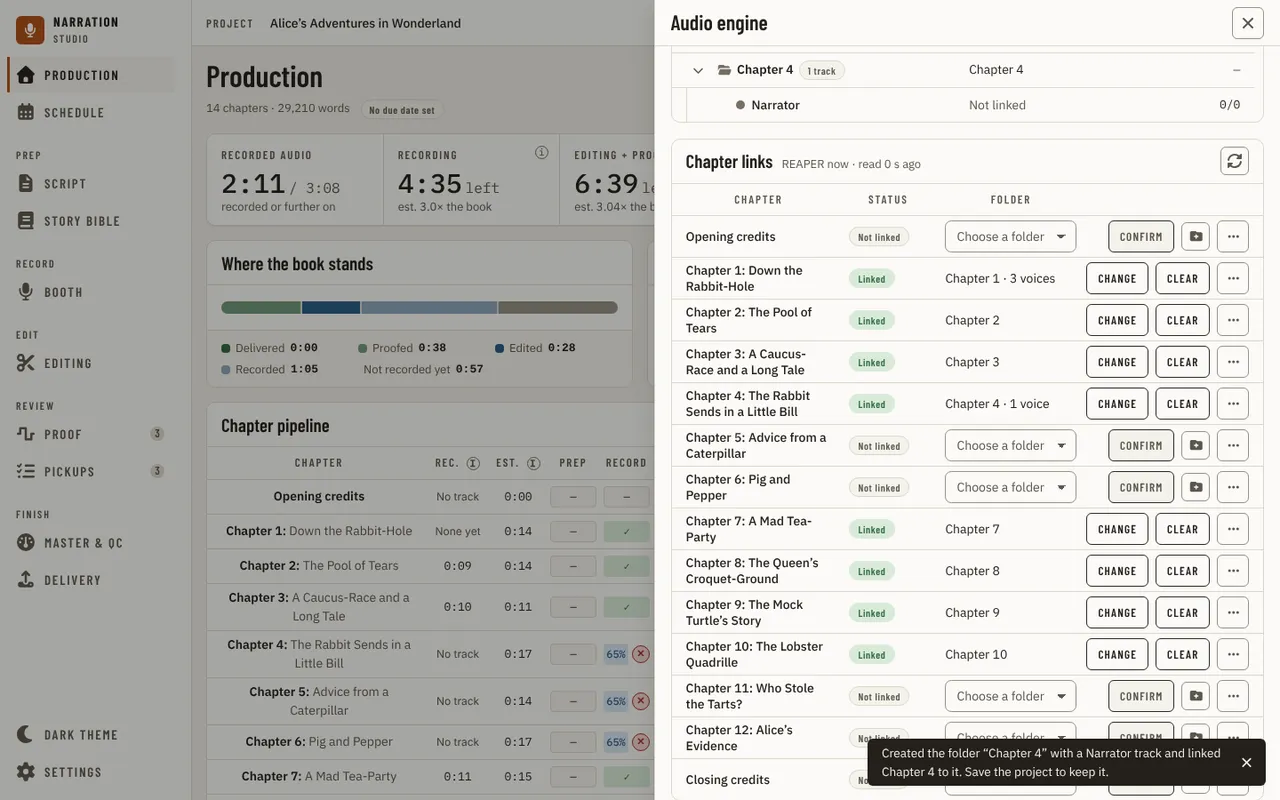
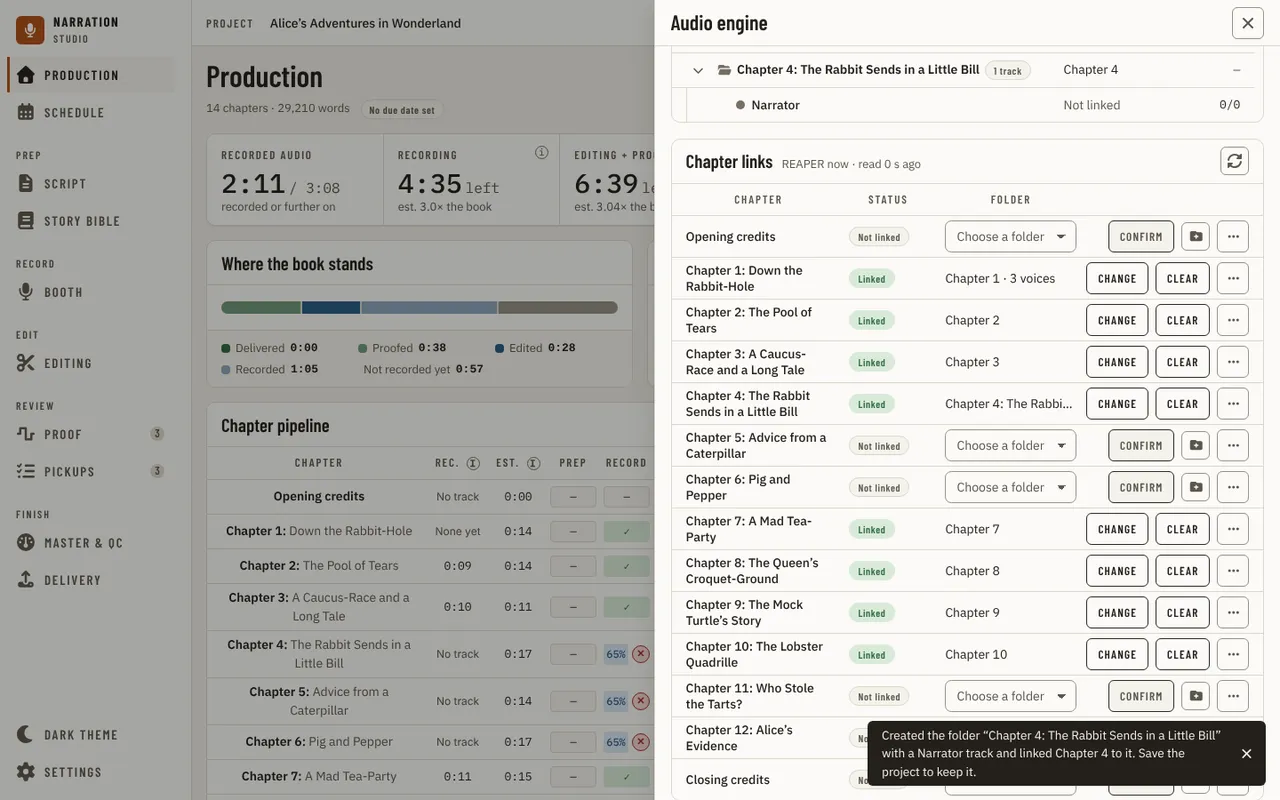
docs(engine): the open-folder close on every append and the create refusals
Claude-Session: https://claude.ai/code/session_01EBTykfDm4tMvg2DQjdoWjd

diff --git a/docs/architecture/threat-model.md b/docs/architecture/threat-model.md
@@ -136,7 +136,7 @@ Boundary: the Go host and the Lua bridge in REAPER exchange files in one session
 | 5o | T, E, I: the app makes REAPER render: the mastering port's DAW row (`render_with_fx`, with `master_chain_read` to show the chain first; [Provider ports](provider-ports.md), owner decision D86, and [The REAPER bridge and its test harness](reaper-bridge.md)). The bridge's first command that renders (`narration_render.lua` only configures one, row 5h); a render runs the project's own plug-ins over its audio and writes files | **Built, Experimental, and not yet sent by any screen**. `src/studio/integrations/reaper/narration_master_render.lua` renders only when: the command carries a host approval token, 32 to 128 hex characters, not seen before in this REAPER session (used up even when the render is then refused); the output folder is absolute, has no `.` or `..` part, ends in `<app>/mastering/<plain name>`, exists and is empty; each named region exists once; REAPER is not recording; and `RENDER_TARGETS` predicts exactly one `<folder>/fx-NN.wav` that does not exist yet (a region's name never shapes a path, and a format other than WAV is refused rather than written). Each region renders as the master mix (`RENDER_SETTINGS` 0) between its own bounds with `RENDER_ADDTOPROJ` 0, and the seven render keys it writes are read first and put back afterwards; `RENDER_FORMAT` is never written and `RENDER_STATS` never read. `master_chain_read` reads and changes nothing, and a list the bridge cut short is refused (`bridge.ErrChainTooLong`), so the narrator approves a chain they saw whole. The host side (`src/studio/desktop/internal/masteringport/daw.go`) needs `Request.Approved`, makes a fresh 128-bit token per render and never stores it, makes the empty run folder itself and removes it after, refuses an answer naming a file outside that folder, moves the one WAV into place without replacing a file (a hard link, or a copy renamed in once the destination is still free), and measures and judges it only with `internal/measure` and `internal/deliveryprofile`. Both capabilities are Experimental in `internal/dawport/reaper` (`master_chain_read` through `bridge.Actions`' gate, `render_with_fx`'s role only when the resolver allows it). The host sets `masteringport.UseSession` in `ServiceStartup` to the open project's DAW port resolver and folder, read again on each master (`Host.masteringSession`), and Master & QC's export masters with the project's chosen row; it refuses a row that needs approval before the job starts, because its request carries no approval yet, so no master reaches REAPER until the export asks the narrator for one (#2739). Re-read 2026-11-03 (#2739) against `export_job.go` and `bindings_mastering.go`. Tested by the harness (`master_render_test.lua`, 18 mutation checks), `bridge`, `dawport/reaper` and the mastering conformance suite, whose fake DAW refuses what the bridge refuses | A same-user process that can write the command folder (5a) can forge a render with a token it invents: it runs the narrator's own installed plug-ins over the project's audio and writes only into an existing, empty `<app>/mastering/<name>` folder, never over a file, and the narrator's render settings are put back. That is the same exposure as the narrator's own render dialog and costs CPU and disk, not data. What REAPER does with the settings (the render action's dialog, custom-bounds targets, tails, sample rate, which FX run) is checked in the owner's scripted pass (#510), not the harness. Accepted; #240 as for 5a. Owner: maintainer |
 | 5r | T, I, D: a command plays a file on disk through REAPER or shows it in REAPER's Media Explorer, by path, outside the project (`preview_file_range`, `stop_file_preview`, `reveal_file`; SN-B98, the `file_preview` and `file_reveal` capabilities). The first commands whose path the Lua opens as audio without adding it to the project | **The path is one the narrator picked.** No binding takes a path (the path-taking `DawPreviewFileRange` and `DawRevealFile` were removed unused, #2749, #2750). The host sends a path only from Master & QC's `MasterPlayQuietest` and `MasterOpenInDaw` (`src/studio/desktop/bindings_master_files.go`, SN-M97), which take a file id, not a path or a time: only a file of the host's last measurement is accepted (any other id is refused with code `stale` before anything is checked or sent), the stretch is the 5 s the host centres on that run's own quietest window and clamps to the file, and the path then goes through the same checks. Each sends only one the narrator chose in the Master & QC file picker in this session (`measurePicked`, the same set `MeasureAnalyze` accepts), cleaned and absolute; the page's own text is never a path the host trusts. Before anything is written, `bridge.CheckMediaFile` refuses a network share (a `\\` or `//` start, so the narrator's Windows credentials are never sent to a server by REAPER opening it), a relative path, a `..` segment, an extension outside the audio list (`.wav`, `.wave`, `.bwf`, `.w64`, `.flac`, `.mp3`, `.ogg`, `.aif`, `.aiff`, `.wv`), a folder and a file that is not there. `narration_media_file.lua` checks the same rules again, so a forged command (5a) is held to them too, and refuses while REAPER records. **Nothing changes in the project.** A preview is an SWS preview of a source made with `PCM_Source_CreateFromFile` (no item, no take, no undo block, no transport, cursor or selection change), at most 60 s, stopped by a watcher at the end of its stretch, by `stop_file_preview`, by a new preview, or when the script ends, and its source is freed; `reveal_file` calls only `OpenMediaExplorer(path, false)`, which selects the file without importing or playing it. Every newer call is checked with `APIExists` and refused without it. Both capabilities are Experimental, gated by `bridge.Actions` and the resolver; Master & QC's Play the quietest 5 s and Open in the DAW send them, and are off with the capability's sentence until the narrator turns them on. Tested by `media_file_test.lua` (9 mutation checks), `bridge/media_file_test.go`, `bindings_daw_files_test.go` and `bindings_master_files_test.go`. Re-read 2026-11-03 (#2749, #2750): the two path-taking bindings removed, so every path the host sends comes from a measured file id or an offered take | A same-user process that can write the command folder (5a) can make REAPER play up to 60 s of any local audio file the narrator's account can read, or show one in the Media Explorer: audible and visible, no data leaves the machine and nothing is written. REAPER's own decoders parse the file, the same exposure as the narrator opening it in REAPER. Not run in REAPER: what the SWS preview and `OpenMediaExplorer` do there (the output a preview uses, that the Media Explorer imports nothing, that a source can be freed a cycle after the stop) is row C10 and C11 of the verification pass, pending with the QA pass (#1495). Re-read 2026-10-16 (SN-C52) against `bindings_daw_files.go`, `bindings_master_files.go`, `bridge/media_file.go` and `narration_media_file.lua`: 60 s cap, the ten audio extensions, the picked-file check and the 5 s stretch are as written. Accepted; #240 as for 5a. Owner: maintainer |
 | 5s | T, E: the app writes into REAPER's own configuration and REAPER runs it at every start (`internal/reaperinstall`, `src/studio/desktop/reaperbridge.go`): the bridge's Lua goes into `<resource path>/Scripts/<launcher folder>/`, one marked block goes into `Scripts/__startup.lua`, and the host starts REAPER on the linked project when a REAPER project opens and REAPER is not running. A hostile or wrong write could run other code at REAPER's start, destroy the narrator's own startup lines or scripts, or start REAPER on a file the narrator did not link | The files written are only the release's embedded `src/studio/integrations/reaper/*.lua` (a checkout's own folder in development), never anything the page or a project sends; the page sends no path. The resource path is REAPER's per-user default (`%APPDATA%\REAPER`, `~/Library/Application Support/REAPER`, `~/.config/REAPER`) or the folder of the resolved `reaper.exe` when `reaper.ini` sits beside it (portable), and the install refuses when that folder does not exist, so it never creates REAPER's configuration. Each file goes through a temporary file and a rename. A file whose content is not the one `install.json` recorded is copied to `Scripts/<launcher folder>/backup/<time>/` first; files outside `Scripts/<launcher folder>` other than `__startup.lua` are never opened. In `__startup.lua` only the lines between the app's two markers are rewritten; the file is backed up the first time the block is added; a begin marker without an end marker is not a block. The block runs one fixed file under `GetResourcePath()` inside `pcall`. `reaper.ini` and `reaper-kb.ini` are never written: the startup script adds the launcher action itself with `AddRemoveReaScript`. The startup script starts the bridge loop (row 5a's folder) and no program. Turning `DAW.auto_start_launcher` off writes nothing into REAPER. The start passes only the manifest's linked `.rpp` (row 6zc) to the resolved `reaper.exe` through `exec.Command`, once per opened project, never again after a failure or after the narrator closes REAPER. Nothing runs unless the app's real start set `dawAutoEnabled`, so no test writes into a REAPER folder. Verified in REAPER 7.82 on Linux, 2026-10-23 ([the run](../research/reaper-startup-bridge-2026-10-23.md)); not run on Windows | Someone who can write the resource folder can change what REAPER runs at start; they could already do that, and they can edit the scripts the app installed, which the next check replaces after backing them up. A block a narrator deletes is added again on the next check while the setting is on. No privilege is crossed. Owner: maintainer |
-| 5t | T: a command adds a track to the project ("Create a track for this chapter and link it"; `track_create`, `ChapterTrackCreate`) | Registered command name only (5a's folder ACL); it takes one argument, the name, which the host builds from the chapter's display title (the UI sends only a chapter id, and a chapter the manuscript does not have is an error before anything is sent). The Lua trims the name, turns a line break or tab inside it into a space, refuses an empty name and refuses while REAPER records; it inserts one track after the last (`InsertTrackAtIndex(CountTracks(0), false)`), sets only its `P_NAME`, in one undo block `<app name>: add track`, changes no other track, never saves the project and opens or writes no path (`track_create_test.lua` and five mutation checks). The name is percent-encoded in the answer like every field, so it cannot add a line to `events.log`. The host refuses it while the capability is off (DAW port's track_create role, [resolver.go](../../src/studio/desktop/internal/dawport/resolver.go)). On Audacity 3 the same role sends `NewMonoTrack` and `SetTrackStatus` with the name, refusing a name with a double quote, a backslash or a control character before anything is sent (14a). In a Voice folders project the host adds a fourth argument, the fixed child name `Narrator` (#2840): the Lua appends a folder and that one child in the same undo block, and may lower the last existing track's `I_FOLDERDEPTH` to close a folder left open, which moves no track into or out of a folder; a parent GUID with a child name is refused | Not idempotent by design: a forged or repeated command adds another empty track, visible in the track list and taken back by one Undo; nothing is deleted or overwritten. Accepted; #240 as for 5a. Owner: maintainer |
+| 5t | T: a command adds a track to the project ("Create a track for this chapter and link it"; `track_create`, `ChapterTrackCreate`) | Registered command name only (5a's folder ACL); it takes one argument, the name, which the host builds from the chapter's display title (the UI sends only a chapter id, and a chapter the manuscript does not have is an error before anything is sent). The Lua trims the name, turns a line break or tab inside it into a space, refuses an empty name and refuses while REAPER records; it inserts one track after the last (`InsertTrackAtIndex(CountTracks(0), false)`), sets only its `P_NAME`, in one undo block `<app name>: add track`, changes no other track, never saves the project and opens or writes no path (`track_create_test.lua` and five mutation checks). The name is percent-encoded in the answer like every field, so it cannot add a line to `events.log`. The host refuses it while the capability is off (DAW port's track_create role, [resolver.go](../../src/studio/desktop/internal/dawport/resolver.go)). On Audacity 3 the same role sends `NewMonoTrack` and `SetTrackStatus` with the name, refusing a name with a double quote, a backslash or a control character before anything is sent (14a). In a Voice folders project the host adds a fourth argument, the fixed child name `Narrator` (#2840): the Lua appends a folder and that one child in the same undo block. Before either append it may lower the last existing track's `I_FOLDERDEPTH` to close a folder left open, which moves no track into or out of a folder; a parent GUID with a child name is refused. The host refuses a chapter already linked to a track and a name a track already has, and serialises creates, so a repeated press adds no second track | Not idempotent by design: a forged or repeated command adds another empty track, visible in the track list and taken back by one Undo; nothing is deleted or overwritten. Accepted; #240 as for 5a. Owner: maintainer |
 | 5u | T: a command replaces a range of the narrator's words with a stretch of another narrator's audio, or puts the narrator's audio back (`replace_range`, `restore_replacement`, `narration_replace.lua`; #2251) | Both name every item by GUID only and never fall back to a neighbour; an item, their item or the replacement that no longer resolves is `ITEM_STALE` and nothing changes. `replace_range`'s arguments (two pairs of finite times in order, a fade of 0 to 500 whole ms, a level change of -24 to 24 dB and an id of 1 to 64 letters, digits, `-` or `_`) are checked before any REAPER call, and it refuses a range outside either item, their item on the narrator's own track or on the Cuts track, an item with no audio take, a neighbour over the words, words already replaced, and anything while REAPER records. It opens only the file their item's active take already plays, a path read from the project, never one the host sends, so it adds no path the host chose to the project (the import that puts their file in the project is its own boundary). In one undo block it moves the narrator's piece to the muted Cuts track as `delete_range` does, adds one item playing that file, and moves the later items on that one track; it deletes nothing and never changes their item or track. `restore_replacement` acts only on an item whose `P_EXT` carries the id the host recorded and a parked piece still on the Cuts track; it deletes only that item (the app's own, playing a file it never wrote) and moves the piece back, in one undo block. `undo_last` gains the fixed labels `<app name>: replace audio` and `<app name>: put audio back` (`replace_test.lua`, `undo_test.lua` and nine mutation checks) | A same-user process that can write the command folder can add a muted track playing a local audio file to the project (`import_audio_track`, the one command in this file that opens a path the host sent: row 6t), replace the narrator's words with audio already on another track of the project, or put a replacement back; each is one visible undo step and deletes no audio of the narrator's. Re-read 2026-10-24 (#2251). Accepted; #240 as for 5a. Owner: maintainer |
 
 `SECURITY.md` lists what a reporter should look at; the bridge is a boundary a reporter might not think of, so its scope bullet is added there ("the file protocol between the app and REAPER, and the paths the Lua opens from a command").

diff --git a/docs/architecture/reaper-bridge.md b/docs/architecture/reaper-bridge.md
@@ -198,7 +198,7 @@ is selected in that case - the same shape `chapter_track_state` already uses for
 
 `track_create` is "Create a track for this chapter and link it" (the [`track_create`](../reference/daw/capabilities.md#track_create) capability), offered when a chapter has no track to record on. It adds one track after the last (`InsertTrackAtIndex(CountTracks(0), false)`), names it (`P_NAME`) in one undo block `<app name>: add track`, and answers `TRACK_CREATED` with the new track's GUID, index and name. The name is trimmed and a line break or tab inside it becomes a space; an empty name and a REAPER that is recording are refused with `ERROR`. It changes no other track, never saves the project, and adds a track on every call. The host names the track after the chapter's display title and links the chapter to the GUID it answers (`ChapterTrackCreate`, `src/studio/desktop/chaptertrackcreate.go`; [threat model](threat-model.md), row 5t). What the fake cannot show, and the verification pass checks (row C19): the GUID REAPER answers, that one Undo removes the track, and the record input a new track gets.
 
-`track_create|run|name||childName` adds a chapter folder for a Voice folders project (#2840): a folder named `name` (`I_FOLDERDEPTH` 1) and one child named `childName` (-1) after every track, in the same undo block, answering `TRACK_CREATED` with the folder and then the child's GUID, index and name (three optional fields). First it closes any folder the last track leaves open, lowering that track's `I_FOLDERDEPTH` by the number still open, so the new folder is not nested in the chapter before it; that is the only change to a track that was there. A parent GUID and a child name together are refused. The host sends `Narrator` as the child when the project's layout is Voice folders, and links the chapter to the folder (`createChapterTrack` in `chaptertrackcreate.go`). The open-folder close is the same rule `core.append_track` in #2877 applies to every append; until that lands only the folder append closes it. Harness: `track_create_test.lua` and eight mutation checks; in REAPER 7.82 on Linux: the real-REAPER scenario `track_create_chapter_folder` (depths after the create and after save and reload, and one Undo restoring the project).
+`track_create|run|name||childName` adds a chapter folder for a Voice folders project (#2840): a folder named `name` (`I_FOLDERDEPTH` 1) and one child named `childName` (-1) after every track, in the same undo block, answering `TRACK_CREATED` with the folder and then the child's GUID, index and name (three optional fields). First it closes any folder the last track leaves open, lowering that track's `I_FOLDERDEPTH` by the number still open, so the new folder is not nested in the chapter before it; that is the only change to a track that was there. A parent GUID and a child name together are refused. The host sends `Narrator` as the child when the project's layout is Voice folders, and links the chapter to the folder (`createChapterTrack` in `chaptertrackcreate.go`). A plain `track_create` closes a folder left open at the end the same way before its append (#2958, B1), so the only change to an existing track is that closing depth and no track changes parent. The close is the same rule `core.append_track` in #2877 applies to every append; when that lands, both appends here should use it. Harness: `track_create_test.lua` and nine mutation checks; in REAPER 7.82 on Linux: the real-REAPER scenarios `track_create_chapter_folder` and `track_create_plain_after_open_folder` (depths after the create and after save and reload, and one Undo restoring the project). The host refuses before sending anything when the chapter is already linked to a track the project has (`already_linked`) or a track or folder already has the name (`name_taken`), and serialises creates, so two presses add one track.
 
 ### The live track list (`narration_tracks_read.lua`)
 

diff --git a/docs/reference/daw/capabilities.md b/docs/reference/daw/capabilities.md
@@ -149,7 +149,7 @@ Facts about REAPER, Audacity and the built-in recorder are copied from the pages
 - **Intent:** add a track for a chapter that has none, so the chapter can be linked to it and recorded.
 - **Role:** `TrackCreator`, synchronous.
 - **Result:** one new track at the end of the project's track list, named as asked (trimmed), with the engine's id for it, its name and its 0-based index. No other track changes and the project is not saved. One undo point. Each call adds a track: it is not idempotent. A blank name is refused before anything is sent, and the engine refuses while it records, so no track appears in the middle of a take. The host links the chapter to the id it answers (`ChapterTrackCreate`).
-- **REAPER:** `track_create` (`TRACK_CREATED`), Experimental, in `narration_track_create.lua`: `InsertTrackAtIndex(CountTracks(0), false)` and `P_NAME` in one undo block `<app name>: add track`. A line break or tab inside the name becomes a space. Refused with `ERROR` while `GetPlayState` has the recording bit.
+- **REAPER:** `track_create` (`TRACK_CREATED`), Experimental, in `narration_track_create.lua`: `InsertTrackAtIndex(CountTracks(0), false)` and `P_NAME` in one undo block `<app name>: add track`. A folder left open at the end is first closed on the last track, so the new track is at the top level and no track changes parent (#2958; `track_create_plain_after_open_folder`, REAPER 7.82 on Linux, 2026-11-03). A line break or tab inside the name becomes a space. Refused with `ERROR` while `GetPlayState` has the recording bit.
 - **REAPER, a chapter folder:** `track_create` with a child name (`FolderTrackCreator`, `CreateFolderTrack`, #2840): a folder named after the chapter and one child, `Narrator`, after every track in one undo block; a folder left open at the end is closed on its last track first, and no other track changes. `ChapterTrackCreate` uses it when the project's layout is Voice folders and links the folder. An older script ignores the child name and adds a plain track, which the host links as one. Seen in REAPER 7.82 on Linux, 2026-11-03 (`track_create_chapter_folder`).
 - **REAPER, inside a folder:** `track_create` with a parent GUID (`ChildTrackCreator`, `CreateChildTrack`): a direct child after the folder's last descendant, folder depths moved so every folder still closes, the first child's record input and mode copied, `TRACK_STALE` for a parent that is gone. Seen in REAPER 7.82 on Linux, 2026-11-03 (`track_create_in_folder`).
 - **Audacity 3.x:** Experimental. `NewMonoTrack` (`NewStereoTrack` when the last audio track is stereo), then `SetTrackStatus` with the name, which selects the new track alone ([Audacity 3.x](audacity-3.md)); one undo step, since `NewMonoTrack` adds one and `SetTrackStatus` none. The id is the one `track_select` and `track_state` find it by (`audacity:<name>`, `#n` when the name repeats). A name the pipe cannot carry (a double quote, a backslash, a control character) is refused before any track is added. A recording this app started is refused; one started in Audacity's own window cannot be seen, and the first command ends it, as for every Audacity role.

diff --git a/docs/guides/using-the-app/navigation.md b/docs/guides/using-the-app/navigation.md
@@ -320,9 +320,12 @@ To add a track for a chapter that has none, press the **+** button on its row (*
 named after the chapter after every other track, the chapter is linked to it, and a message says what was made. Nothing else in the
 project changes, the project is not saved, and one Undo in REAPER takes it back. The button is only on a row with no link: a chapter
 whose track is missing keeps Change and Clear. While REAPER records, or when it is closed or not answering, nothing is added and a
-message says why. With [Voice folders](#voice-folders) the button is **Create a folder for this chapter**: REAPER adds a folder named
-after the chapter with one track inside it, **Narrator**, and the chapter is linked to the folder. If the project's last folder was left
-open in REAPER, that folder is closed first, so the new chapter is never nested inside the one before it.
+message says why. Nothing is added either when the chapter is already linked to a track, or when a track or folder already has the
+name the new one would get: link that one with the track list instead. While one track is being added, the other rows' buttons are off.
+If the project's last folder was left open in REAPER, that folder is closed on its last track first, so the new track is never inside
+it. With [Voice folders](#voice-folders) the button is **Create a folder for this chapter**: REAPER adds a folder named
+after the chapter with one track inside it, **Narrator**, and the chapter is linked to the folder. The Booth's and Editing's link dialog
+says **Create a new folder** in a Voice folders project and makes the same folder.
 
 ![Chapter links after Create a track for this chapter: the first chapter linked to its new track, and a message saying it was made](../../images/ui/engine-panel-chapter-track-created.webp)
 
